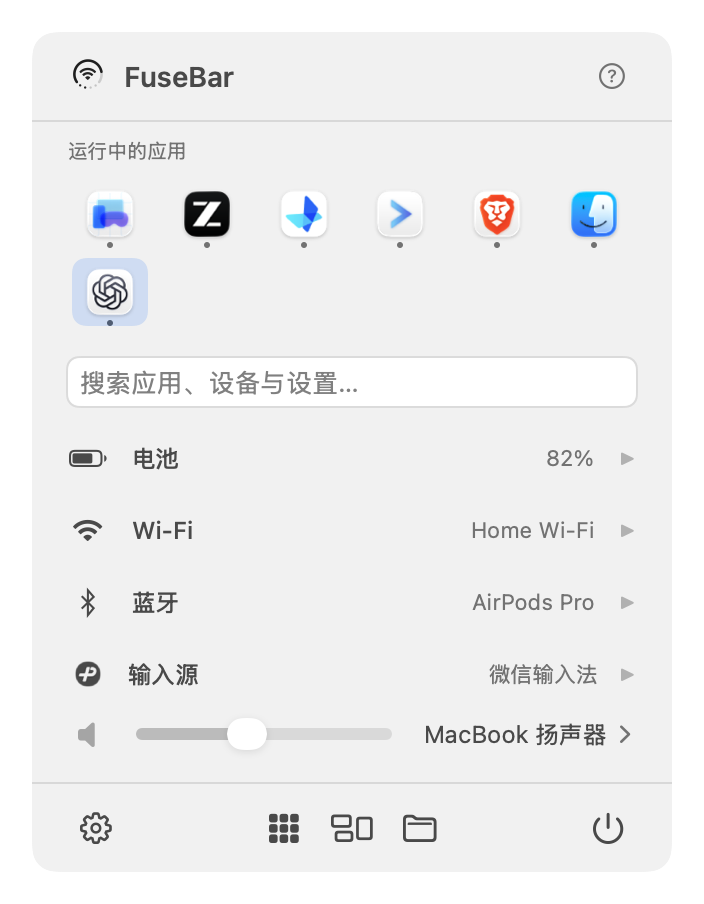
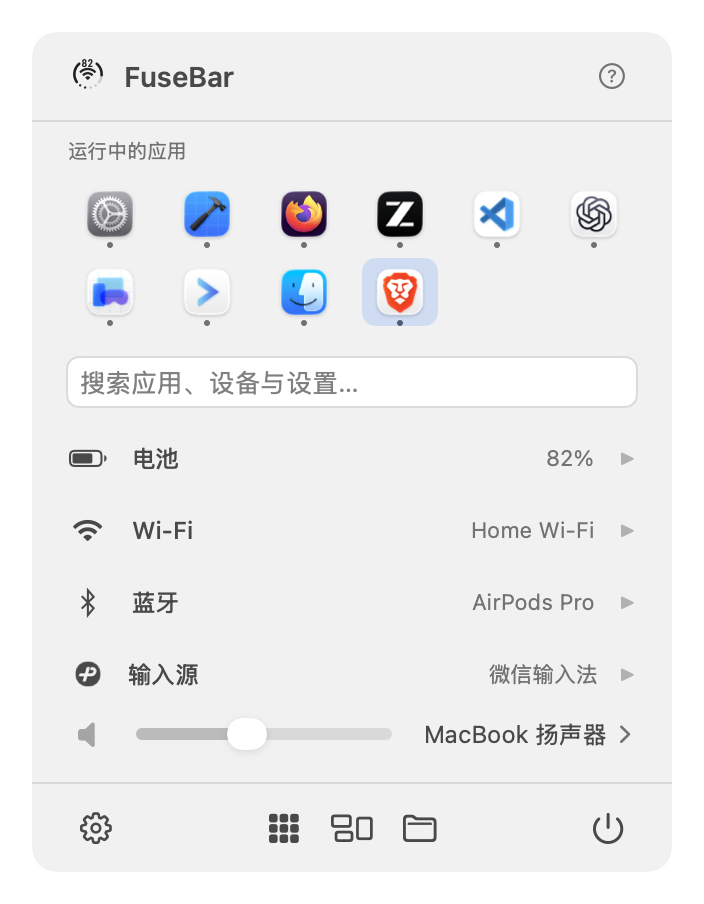
Release 1.4.0 (build 9): notes, README, and previews
Claude-Session: https://claude.ai/code/session_01M4Lgbwj9CqVQF9PzgxqVKz

diff --git a/Distribution/RELEASE_NOTES.md b/Distribution/RELEASE_NOTES.md
@@ -1,15 +1,17 @@
-# FuseBar 1.3.2
+# FuseBar 1.4.0
 
-A fix for the first click while typing in the panel's search field.
+The ring now shows your battery percentage, and the whole icon turns red when the battery runs low.
 
-- **Clicking a row now works on the first try while an input method is composing.** The panel focuses its search field on open. With a composing input method (such as pinyin), the first click anywhere else in the panel was spent committing that composition: the row under the cursor never fired, and the committed text replaced the status rows with search results — switching the input source appeared to do nothing until a second attempt. FuseBar now discards the uncommitted composition before the click is dispatched, so the first click lands on the row and the half-typed pinyin is not turned into a search query. Clicking back into the search field still edits the composition as before.
+- **Battery percentage on the ring.** The number sits in an opening at the top of the ring. The ring now fills in two halves: the left half up to 50%, then the right half from the top down. Turn the number off in Settings under Show in the ring › Battery percentage. It is hidden while the battery state is unknown and on Macs without a battery.
+- **Battery level and charging at a glance.** With the number at the top, the bottom of the ring keeps showing the charging bolt and the other alerts. The bottom slot's battery percentage option was removed; if you had chosen it, the bottom returns to alerts and volume dots, and the number now appears at the top.
+- **Red when the battery is low.** Below 20% on battery power, the whole icon turns red, in the menu bar and in the panel. Below 10%, the battery readout that appears beside the ring is red too. Plugging in restores the normal icon.
 
 FuseBar stays free and local: no accounts, ads, analytics, or subscriptions. It is distributed through GitHub releases and is not published on the Mac App Store.
 
 ## Install
 
-Download `FuseBar-1.3.2-macOS.zip`, extract it, and move FuseBar to Applications. Quit a running older version before replacing it. Requires macOS 14 or later; the universal app supports Apple Silicon and Intel.
+Download `FuseBar-1.4.0-macOS.zip`, extract it, and move FuseBar to Applications. Quit a running older version before replacing it. Requires macOS 14 or later; the universal app supports Apple Silicon and Intel.
 
 ## Validation
 
-82 XCTest and 25 Swift Testing checks pass, including three new tests for discarding the composition on row clicks while keeping it for clicks inside the field. The first-click behavior is verified live with a pinyin input method: with the composition active, the first click opens the input-source submenu and the selection switches, confirmed by reading the system input source back.
+83 XCTest and 26 Swift Testing checks pass, including new tests for how the opened ring splits into halves, when the number shows, when the icon turns red, and the fallback for the retired bottom battery setting. The menu bar icon was checked live on macOS 26.7 at the real battery level and at simulated 76%, 15%, and 7% levels. A real discharge below 20%, Intel Macs, and macOS 14 and 15 have not yet been verified on hardware.

diff --git a/README.zh-Hans.md b/README.zh-Hans.md
@@ -20,7 +20,7 @@ FuseBar 把系统状态、运行中的应用、输入源和项目入口收进菜
 
 ## 功能
 
-- **状态圆环**：圆环显示电量，中间显示网络或声音输出，四个小点表示音量。电量严重不足、Wi-Fi 断开或不可用、电量低、正在充电、静音时，底部会出现提示标记；也可以在设置中改为在底部显示电量或音量百分比。读不到的数值会留空或标为未知，不做猜测。
+- **状态圆环**：圆环显示电量，顶部缺口显示电量百分比，中间显示网络或声音输出，四个小点表示音量。未接电源且电量低于 20% 时，整个图标变为红色。电量严重不足、Wi-Fi 断开或不可用、电量低、正在充电、静音时，底部会出现提示标记；也可以在设置中改为在底部显示音量百分比。读不到的数值会留空或标为未知，不做猜测。
 - **侧边菜单**：电池显示剩余使用时间和低电量模式；Wi-Fi 可以扫描并加入个人网络；蓝牙可以连接或断开已配对的设备；声音可以切换输出设备、调节音量。
 - **搜索**：打字即可打开已安装的应用，支持应用名、首字母缩写（“vsc”）和拼音（“wx” 找到微信）。同一个搜索框还能切换声音输出、连接蓝牙设备、切换输入源，打开项目、收藏的文件和系统设置页面。每个结果都会写明按回车会执行什么。
 - **运行中的应用**：搜索框上方最多显示 12 个，最近用过的排在前面。⌘1–⌘9 打开前九个；右键可以隐藏、在访达中显示或强制退出。

diff --git a/Distribution/RELEASE_NOTES_1.3.2.md b/Distribution/RELEASE_NOTES_1.3.2.md
@@ -1,0 +1,15 @@
+# FuseBar 1.3.2
+
+A fix for the first click while typing in the panel's search field.
+
+- **Clicking a row now works on the first try while an input method is composing.** The panel focuses its search field on open. With a composing input method (such as pinyin), the first click anywhere else in the panel was spent committing that composition: the row under the cursor never fired, and the committed text replaced the status rows with search results — switching the input source appeared to do nothing until a second attempt. FuseBar now discards the uncommitted composition before the click is dispatched, so the first click lands on the row and the half-typed pinyin is not turned into a search query. Clicking back into the search field still edits the composition as before.
+
+FuseBar stays free and local: no accounts, ads, analytics, or subscriptions. It is distributed through GitHub releases and is not published on the Mac App Store.
+
+## Install
+
+Download `FuseBar-1.3.2-macOS.zip`, extract it, and move FuseBar to Applications. Quit a running older version before replacing it. Requires macOS 14 or later; the universal app supports Apple Silicon and Intel.
+
+## Validation
+
+82 XCTest and 25 Swift Testing checks pass, including three new tests for discarding the composition on row clicks while keeping it for clicks inside the field. The first-click behavior is verified live with a pinyin input method: with the composition active, the first click opens the input-source submenu and the selection switches, confirmed by reading the system input source back.

diff --git a/README.md b/README.md
@@ -20,7 +20,7 @@ Move FuseBar to Applications and open it. It lives in the menu bar and has no Do
 
 ## Features
 
-- **Status ring.** Battery around the ring, network or sound output in the center, and volume as four dots. A marker at the bottom flags critical battery, lost or unusable Wi-Fi, low battery, charging, or mute; Settings can show the battery or volume percentage there instead. Values FuseBar can't read stay blank or show as unknown.
+- **Status ring.** Battery around the ring with its percentage in an opening at the top, network or sound output in the center, and volume as four dots. Below 20% on battery power the whole icon turns red. A marker at the bottom flags critical battery, lost or unusable Wi-Fi, low battery, charging, or mute; Settings can show the volume percentage there instead. Values FuseBar can't read stay blank or show as unknown.
 - **Side menus.** Battery shows time remaining and Low Power Mode. Wi-Fi scans and joins personal networks. Bluetooth connects and disconnects paired devices. Sound switches the output and sets the volume.
 - **Search.** Type to open any installed app by name, initials ("vsc"), or pinyin ("wx" for 微信). The same box switches sound outputs, connects Bluetooth devices, changes input sources, and opens projects, saved files, and System Settings panes. Each result says what Return will do.
 - **Running apps.** Up to 12 above search, most recent first. ⌘1–⌘9 open the first nine; right-click to hide, reveal in Finder, or force quit.

diff --git a/docs/previews/README.md b/docs/previews/README.md
@@ -1,6 +1,6 @@
 # FuseBar UI previews
 
-All previews re-rendered from FuseBar 1.3.0 source on October 5, 2026. These are offscreen native SwiftUI/AppKit renders, using sample system status, local running apps and installed input-source names/icons. Device and app names keep their original language. They are not live hardware screenshots or App Store submission images.
+All previews re-rendered from FuseBar 1.4.0 source on October 11, 2026. These are offscreen native SwiftUI/AppKit renders, using sample system status, local running apps and installed input-source names/icons. Device and app names keep their original language. They are not live hardware screenshots or App Store submission images.
 
 Reproduce with `zsh Scripts/render-readme-previews.sh docs/previews`. The script uses an isolated preference suite and does not change the system language, input source, Dock settings, or saved app preferences.
 
